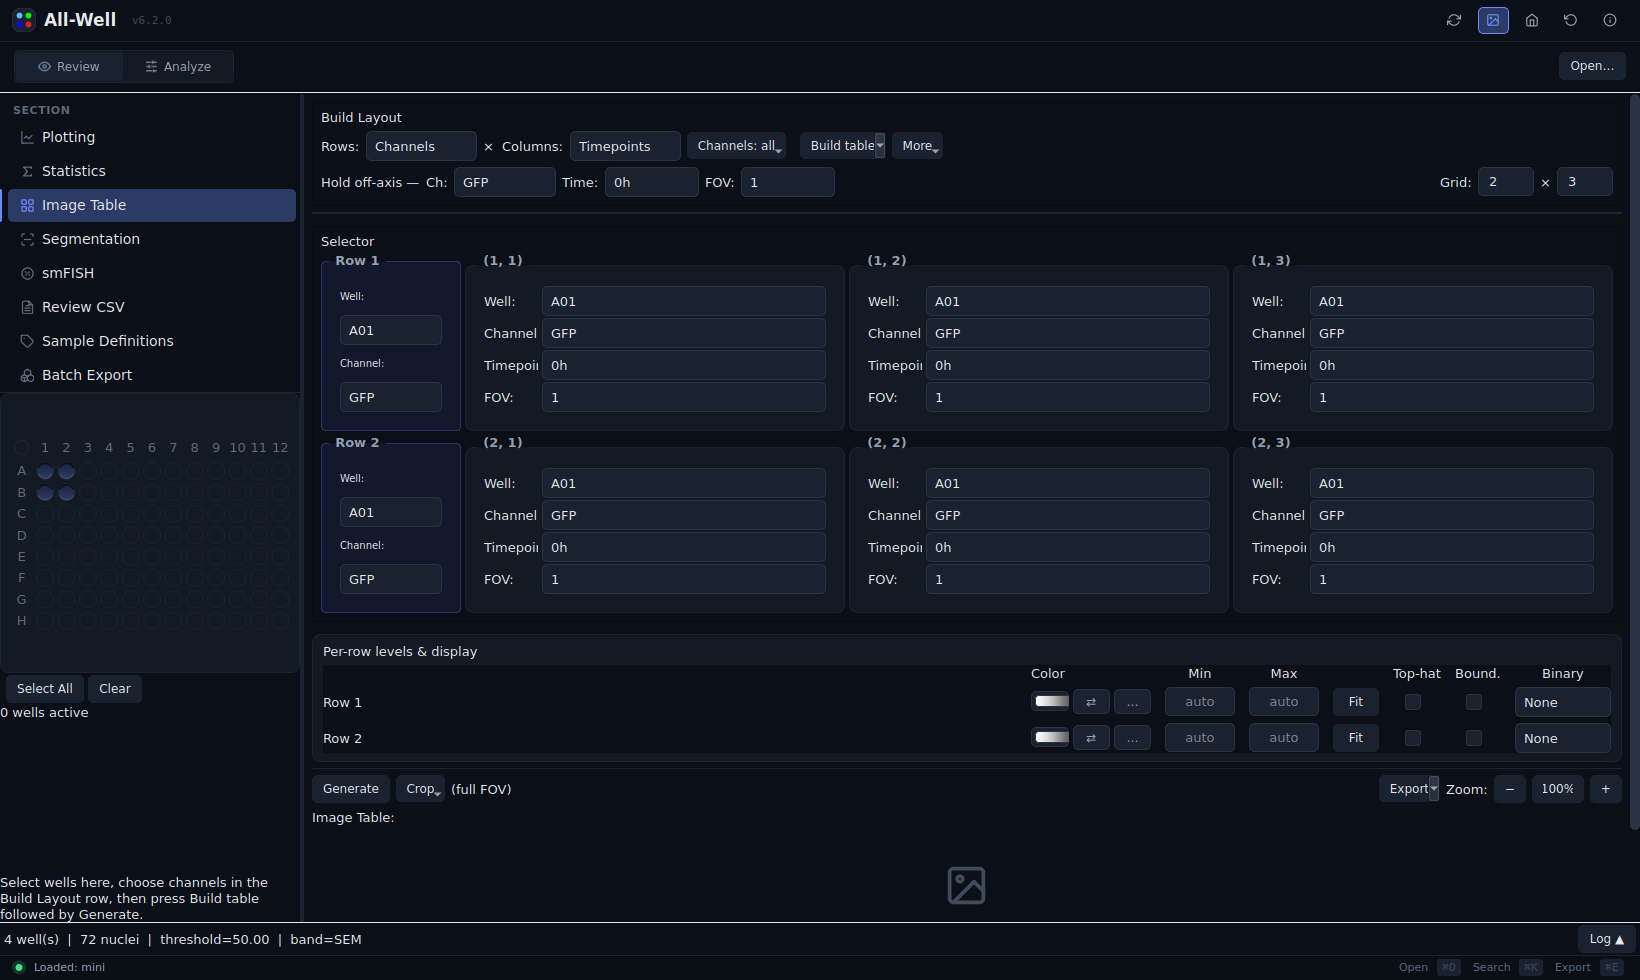
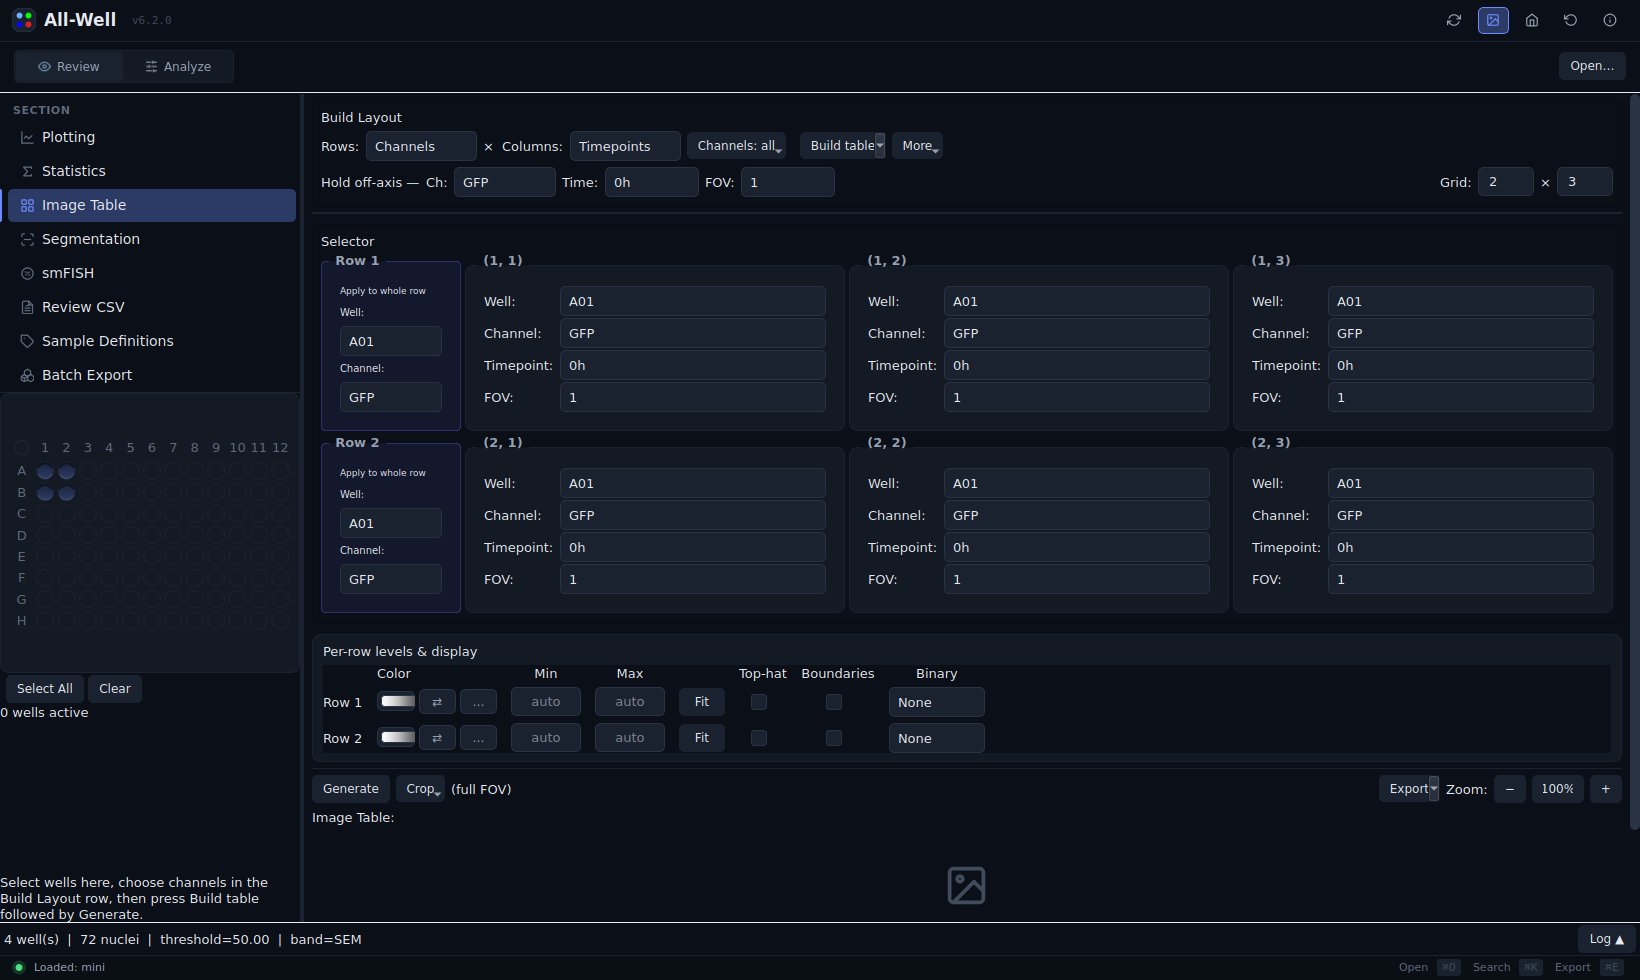
Declutter Image Table; fix flush_dirty_scopes tab-switch ImportError
Image Table (well_viewer/features/image_table/grid_view.py):
- Widen selector-cell labels 54->72px so 'Timepoint:' no longer truncates.
- Per-row levels table: stop stretching the label column; let a trailing
  spacer column absorb extra width so controls hug the left (removes the
  large label->control gap).
- Expand the 'Bound.' column header to 'Boundaries'.
- Caption the tinted row-shortcut boxes 'Apply to whole row' so they read as
  row-wide controls, not stray cells.

flush_dirty_scopes regression:
- fold_change_controls re-exported get_scope/registered_scopes but omitted
  flush_dirty_scopes, so tab_controller's import threw ImportError on every
  tab switch (Qt-swallowed). Add the missing re-export and replace the debug
  traceback.print_exc() with a logged swallow.

Update REPORT.md and re-render the Image Table screenshot.

diff --git a/well_viewer/features/image_table/grid_view.py b/well_viewer/features/image_table/grid_view.py
@@ -70,6 +70,14 @@ def build_image_table_grid(
         rbl.setContentsMargins(6, 8, 6, 6)
         rbl.setSpacing(4)
 
+        # Make clear this tinted box is a row-wide shortcut, not another cell:
+        # its Well/Channel apply to every cell in the row.
+        hint_lbl = QLabel("Apply to whole row", row_box)
+        hint_lbl.setObjectName("Muted")
+        hint_lbl.setStyleSheet("font-size: 9px;")
+        hint_lbl.setWordWrap(True)
+        rbl.addWidget(hint_lbl)
+
         well_lbl = QLabel("Well:", row_box)
         well_lbl.setStyleSheet("font-size: 10px;")
         rbl.addWidget(well_lbl)
@@ -122,7 +130,7 @@ def build_selector_cell(
         rl.setContentsMargins(0, 0, 0, 0)
         rl.setSpacing(4)
         lbl = QLabel(label_text, box)
-        lbl.setFixedWidth(54)
+        lbl.setFixedWidth(72)  # wide enough for "Timepoint:" (was 54 → "Timepoi…")
         rl.addWidget(lbl)
         cb = QComboBox(box)
         cb.addItems(options)
@@ -153,7 +161,7 @@ def build_lut_row(
     """Rebuild the per-row levels + display **table** below the selector grid.
 
     One grid ROW per image-table row (keyed by row index): an aligned table with
-    columns ``Row N · CHAN | Color | Min | Max | Fit | Top-hat | Bound. | Binary``.
+    columns ``Row N · CHAN | Color | Min | Max | Fit | Top-hat | Boundaries | Binary``.
     The checkbox labels live in the column header so the checkboxes are text-less
     and centred (no overlap). All controls are passive — they stage state read by
     the render/export paths (``image_compose._parse_lut`` / ``_row_display_opts``
@@ -221,7 +229,7 @@ def build_lut_row(
         return ""
 
     # ── header row ───────────────────────────────────────────────────────
-    headers = ("", "Color", "Min", "Max", "", "Top-hat", "Bound.", "Binary")
+    headers = ("", "Color", "Min", "Max", "", "Top-hat", "Boundaries", "Binary")
     for c, text in enumerate(headers):
         if not text:
             continue
@@ -312,6 +320,11 @@ def build_lut_row(
         }
 
     app._image_table_row_lut_color_cbs = color_cbs
-    layout.setColumnStretch(0, 1)
+    # Keep the label + control columns hugging the left; let a trailing spacer
+    # column absorb the extra width. Previously column 0 (the "Row N · CHAN"
+    # label) was stretched, which shoved every control to the far right and left
+    # a large empty gap between each row label and its controls.
+    layout.setColumnStretch(0, 0)
+    layout.setColumnStretch(len(headers), 1)
     layout.setHorizontalSpacing(14)
     layout.setVerticalSpacing(6)

diff --git a/well_viewer/core/tab_controller.py b/well_viewer/core/tab_controller.py
@@ -178,8 +178,7 @@ def on_notebook_current_changed(app, _idx) -> None:
         from well_viewer.domain.fold_change_controls import flush_dirty_scopes
         flush_dirty_scopes(app)
     except Exception:
-        import traceback
-        traceback.print_exc()
+        _logger.exception("flush_dirty_scopes failed on tab change")
     # Record the visit in the tab-history stack so cmd-left / cmd-right can
     # walk through it. _tab_history_replaying is set by the back/forward
     # shortcuts to suppress appending while they replay an entry.

diff --git a/well_viewer/domain/fold_change_controls.py b/well_viewer/domain/fold_change_controls.py
@@ -28,6 +28,7 @@ _T0_LABEL = "t0 (first timepoint)"
 # pulling in PySide6; callers below use the same names as if they were
 # defined here.
 from well_viewer.domain.fold_change_scopes import (  # noqa: E402
+    flush_dirty_scopes,  # noqa: F401 - re-exported for the tab-change handler
     get_scope as _get_scope,
     registered_scopes,
 )

diff --git a/_Docs/visual_audit/REPORT.md b/_Docs/visual_audit/REPORT.md
@@ -30,7 +30,7 @@ Cleanliness · Usability · Professionalism**. Findings are tagged
 | Plotting · Distribution | 4 | 4 | 4 | 3 | 4 | 4 | 4 | mpl toolbar appears (inconsistent w/ line/bar) |
 | Plotting · Heat Map | 3 | 3 | 3 | 4 | 4 | 3 | 4 | ✅ dark bg fixed; still cramped when no layout configured |
 | Statistics | 3 | 4 | 3 | 2 | 4 | 4 | 4 | ✅ "Run test" + column alignment fixed; casing (`gfp`) remains |
-| Image Table | 1 | 2 | 2 | 2 | 2 | 2 | 2 | **Most cluttered**; dup Row boxes; label/control gap; truncation |
+| Image Table | 3 | 4 | 3 | 3 | 3 | 3 | 3 | ✅ row table aligned, labels fixed, row-boxes captioned; still dense by nature |
 | Segmentation · Review Image | 3 | 3 | 3 | 3 | 3 | 3 | 3 | Dense single-row toolbar; many buttons |
 | Segmentation · Playground | – | – | – | – | – | – | – | Did not render (optional deps) |
 | smFISH | 3 | 3 | 3 | 3 | 4 | 3 | 4 | ✅ duplicate message fixed; controls still active w/ no data |
@@ -87,15 +87,18 @@ Good, readable. **[L]** matplotlib nav toolbar present (inconsistent with line/b
   right-aligned across all rows).
 - **[M]** `gfp` lowercase. **[L]** Large empty results panel before a run — add a hint.
 
-### Image Table — `30-image-table.png`
-The single most cluttered view.
-- **[H]** **Duplicate selectors**: "Row 1 / Row 2" boxes on the left (Well + Channel) sit
-  beside a (1,1)…(2,3) grid whose cells *also* carry Well/Channel/Timepoint/FOV. The
-  relationship is unclear and the screen is dense with ~24 input fields.
-- **[H]** **"Per-row levels & display"** row labels (Row 1 / Row 2) are on the far left while
-  their controls (Color/Min/Max/Top-hat/Bound./Binary) are on the far right with a vast
-  empty gap between — hard to associate a row with its controls.
-- **[M]** Truncated labels: grid cells show **"Timepoi"**; column abbreviated **"Bound."**.
+### Image Table — `30-image-table.png` *(fixed in this pass)*
+Was the single most cluttered view. Fixes applied:
+- **[H→fixed]** The tinted "Row 1 / Row 2" shortcut boxes (Well + Channel that apply to a
+  whole row) now carry an **"Apply to whole row"** caption, so they read as row-wide
+  controls rather than duplicate cells beside the (1,1)…(2,3) grid.
+- **[H→fixed]** The **"Per-row levels & display"** table no longer stretches the label
+  column — Color/Min/Max/Fit/Top-hat/Boundaries/Binary now hug the left next to each
+  "Row N" label (the large empty gap is gone).
+- **[M→fixed]** Cell label no longer truncates ("Timepoint:" shows in full); the
+  **"Bound."** column header is now **"Boundaries"**.
+- *Remaining:* the per-cell grid is inherently dense (4 dropdowns × R×C) — acceptable for
+  the feature; no further change made.
 
 ### Segmentation · Review Image — `40-segmentation-review-image.png`
 - **[M]** Toolbar packs ~10 buttons in one row (Delete Cell · Crop Region · Clear crop · Reset
@@ -188,6 +191,8 @@ visual scope, flagged for the maintainer.
 | H | **Heat Map dark background** — figure/axes background and empty-cell fill now track the active plot theme (`_bg` token) instead of matplotlib-default white. | `well_viewer/features/heatmap/controller.py` | ✅ done |
 | H | **Statistics "Run test" alignment** — moved to its own row under the form; added a trailing stretch column so labels/fields hug the left instead of splitting width 3 ways. | `well_viewer/features/stats/view.py` | ✅ done |
 | H | **smFISH duplicate empty-state message** — full guidance now shown once (on the canvas); the status line is a concise one-liner. | `well_viewer/features/smfish/tab_view.py` | ✅ done |
+| M | **Image Table clutter** — fixed the truncated "Timepoint:" cell label (width 54→72); the per-row levels table no longer stretches the label column (controls hug the left instead of floating far-right with a big gap); "Bound." → "Boundaries"; the tinted row-shortcut boxes now carry an "Apply to whole row" caption so they read as row-wide controls, not stray cells. | `well_viewer/features/image_table/grid_view.py` | ✅ done |
+| — | **`flush_dirty_scopes` regression** (functional) — `tab_controller` imported it from `fold_change_controls`, which never re-exported it, so every tab switch threw `ImportError` (Qt-swallowed). Added the missing re-export and replaced the debug `traceback.print_exc()` with a logged swallow. | `well_viewer/domain/fold_change_controls.py`, `well_viewer/core/tab_controller.py` | ✅ done |
 
 Verified by re-rendering: see `10-plotting-heat-map.png`, `20-statistics.png`, `50-smfish.png`
 (the screenshots in this folder are the post-fix state). `ruff` clean; the runnable fast
@@ -203,13 +208,14 @@ so each `FigureCanvas` is now drawn synchronously and composited onto the window
 | # | Sev | Item | Why deferred |
 |---|-----|------|--------------|
 | 1 | H | **Channel-token casing** (`gfp`→`GFP` in Scatter/Statistics) | Not display-only: `col_for_scatter_entry` builds CSV column names straight from the combo text (`f"{entry}_{metric}"`), and view-state persistence stores the raw text. A safe fix needs a display↔token mapping across ~8 read/persistence sites — a focused refactor, not a one-liner. |
-| 2 | M | **Image Table clutter** — duplicate Row 1/Row 2 boxes vs the cell grid; per-row display label↔control gap; truncated "Timepoi"/"Bound." | Layout redesign of a dense, much-tested view; warrants its own change + test pass. |
-| 3 | M | **Disable control bars in empty / no-data states** (empty plotting bar, smFISH, Segmentation LUT) | Touches `centre_view.py` + several tab views; needs care to re-enable correctly on load. |
+| 2 | M | **Disable control bars in empty / no-data states** (empty plotting bar, smFISH, Segmentation LUT) | Touches `centre_view.py` + several tab views; needs care to re-enable correctly on load. |
 | 4 | M | **matplotlib nav toolbar consistency** (present on some plot tabs, not others) | Could be deliberate (pan/zoom on interactive plots); removing it changes behaviour — confirm intent first. |
 | 5 | L | Analyze schema-string field width; Groups action-bar placement; CDF auto-range | Cosmetic polish. |
 
-## Discovered functional regression (flagged, not fixed)
+## Discovered functional regression (now fixed)
 
-The `flush_dirty_scopes` `ImportError` on every tab switch (see above) is a real bug but
-outside the visual scope — left for the maintainer to fix or remove the dead import at
-`well_viewer/core/tab_controller.py:178`.
+The `flush_dirty_scopes` `ImportError` thrown on every tab switch — `tab_controller`
+imported the symbol from `fold_change_controls`, which re-exported the other scope helpers
+(`get_scope`, `registered_scopes`) but had omitted `flush_dirty_scopes`. Added the missing
+re-export and swapped the debug `traceback.print_exc()` for a logged swallow. Tab switches
+no longer raise; the deferred fold-change scope redraw now actually flushes on tab change.
